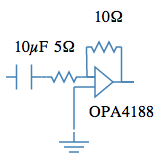
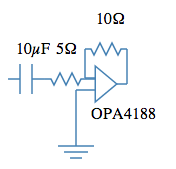
updating readme

Changed region(s): [[0.0904, 0.2469, 0.9337, 0.9568], [0.5422, 0.0617, 0.753, 0.1543], [0.0301, 0.3704, 0.1205, 0.5556]]

diff --git a/README.md b/README.md
@@ -20,12 +20,14 @@ var resistor2 = zap.createResistor(10);
 var ground = zap.createGround();
 
 var view = zap.createView(200, 200);
+// connect the components
 view.wires = [zap.connect(resistor1.out, resistor2.in), zap.connect(resistor2.out, ground.in)];
+// place the components
 view.place(resistor1, 100, 50);
 view.place(resistor2, 100, 100);
 view.place(ground, 100, 150);
 
-view.render(canvas);
+view.render(element);
 ```
 
 A high pass filter
@@ -40,19 +42,15 @@ var opAmp = zap.createOpAmp('OPA4188');
 var capacitor = zap.createCapacitor('10');
 var ground = zap.createGround();
 
-var view = zap.createView(200, 200);
+var view = zap.createView(200, 200).scale(1.2);
+
+// connect the components
 var wireArray = [];
 wireArray.push(zap.connect(capacitor.out, resistor1.in));
 wireArray.push(zap.connect(opAmp.vNeg, ground.in));
 wireArray.push(zap.connect(resistor1.out, opAmp.vPos));
-wireArray.push(zap.connect(resistor2.in, opAmp.vPos));
-wireArray.push(zap.connect(resistor2.out, opAmp.vOut));
-
-// pretty up the wires
-wireArray[1].intersect(70, 110);
-wireArray[3].intersect(83, 100);
-wireArray[4].intersect(117.5, 105);
-wireArray[4].intersect(130, 105);
+wireArray.push(zap.connect(opAmp.vPos, resistor2.in));
+wireArray.push(zap.connect(opAmp.vOut, resistor2.out));
 
 resistor1.rotateLeft();
 resistor2.rotateLeft();
@@ -60,11 +58,13 @@ capacitor.rotateLeft();
 opAmp.rotateRight();
 
 view.wires = wireArray;
+
+// place the components in the proper locations
 view.place(resistor1, 60, 100);
 view.place(opAmp, 100, 105);
 view.place(capacitor, 20, 100);
 view.place(resistor2, 100, 70);
 view.place(ground, 70, 170);
 
-view.render(canvas);
+view.render(element);
 ```
